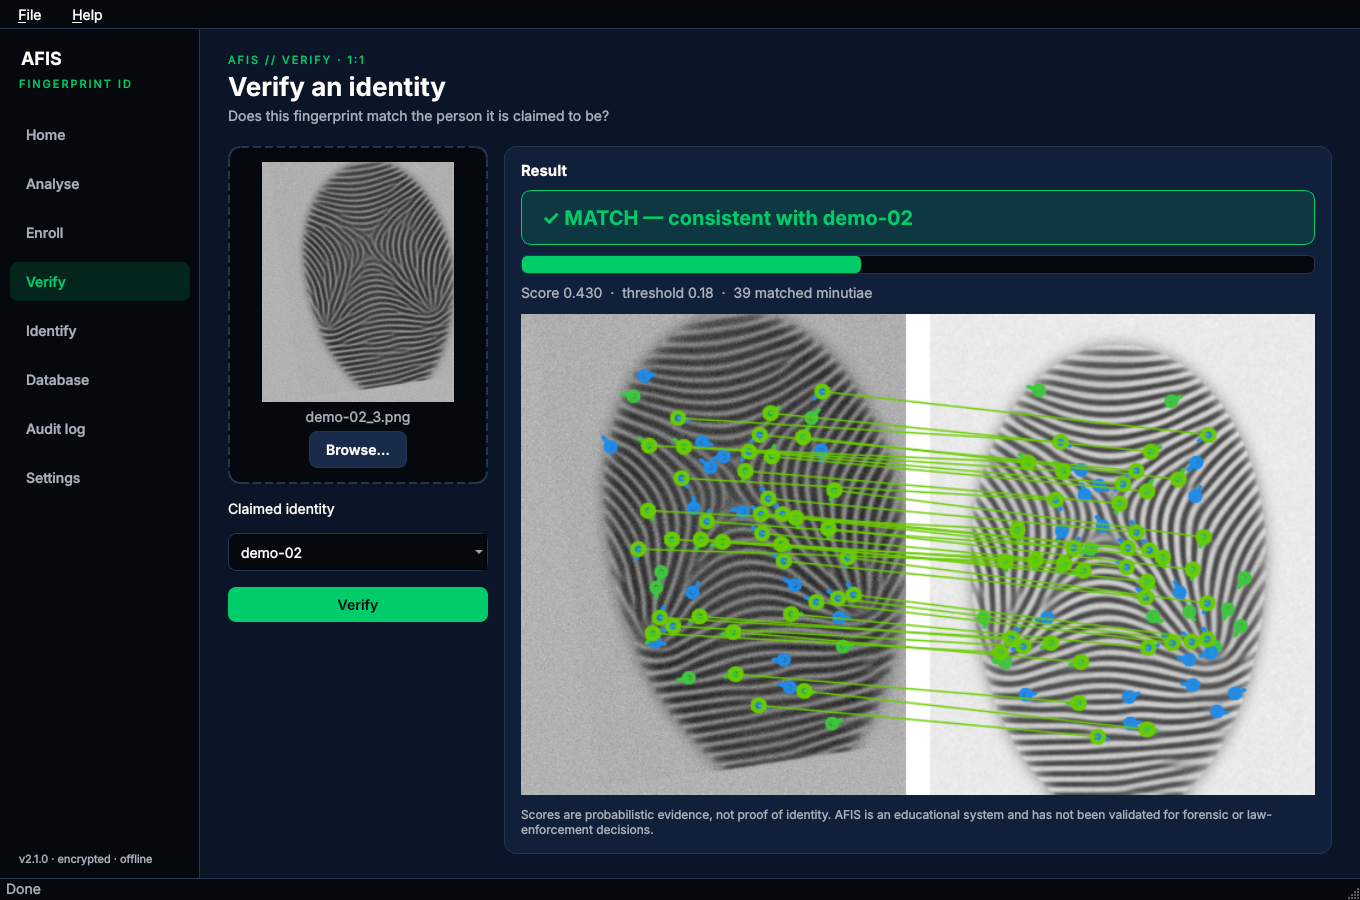
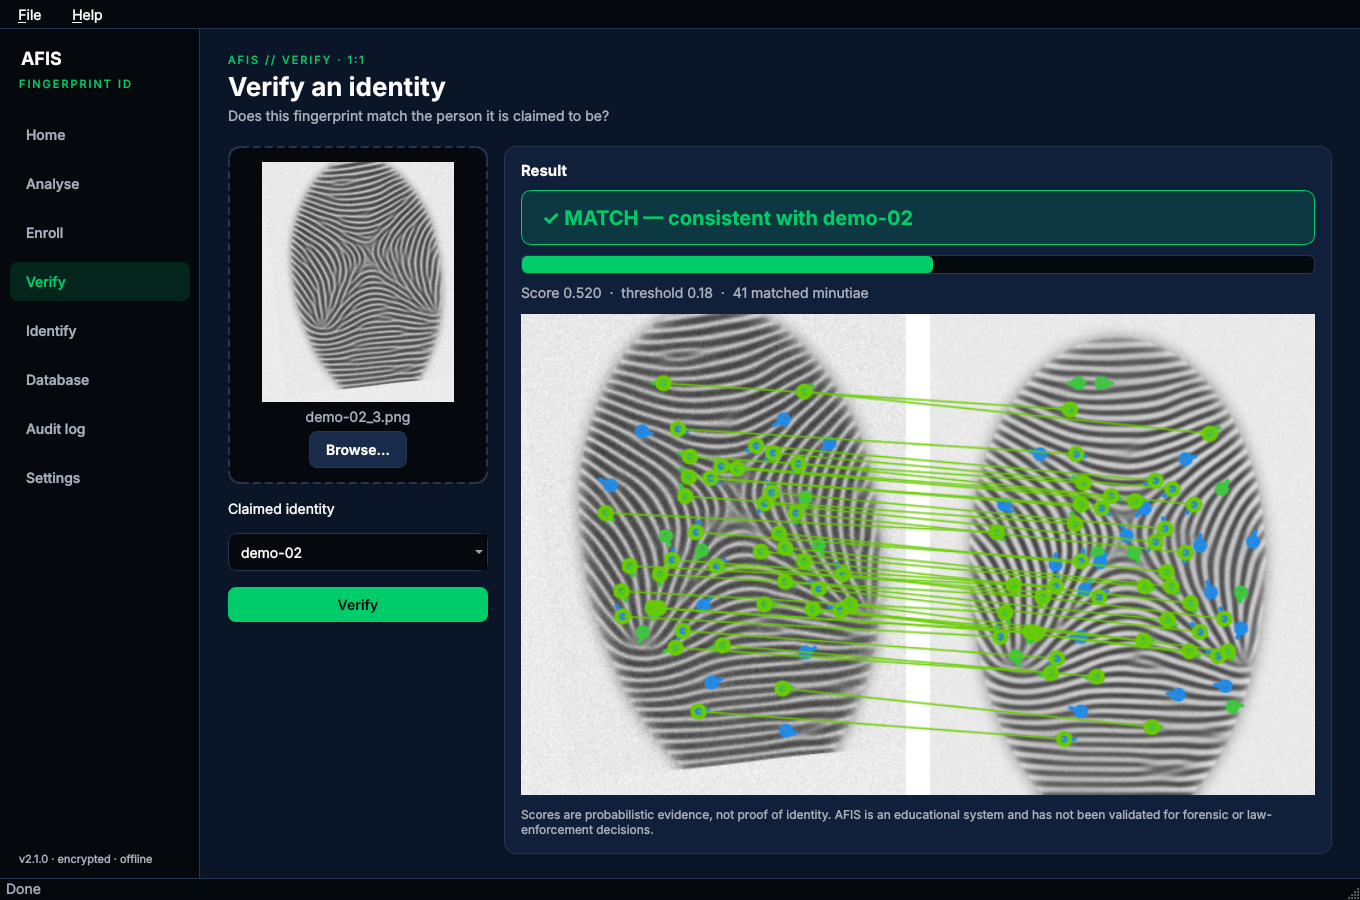
Demo set: 4 well-separated synthetic people; test models real demo usage
The previous seeds were chosen under the tuned matcher settings; after
reverting to the original settings one cross-finger pair sat inside the
required margin on CI. Re-selected under the shipped settings with a
stricter limit (0.08); a fifth finger meeting it was not found in ~2
CPU-hours of search, so the demo now has four people (16 prints).

The separation test now checks what the app does: impressions 2-4 as
queries against each person's enrolled impression 1, in the app's
(query, enrolled) order. The matcher is not exactly symmetric, which is
why an all-pairs, both-orders check reported a stricter number.
Worst wrong-person score 0.090, lowest genuine 0.425 (threshold 0.18).

Screenshots, pipeline figure, README and CHANGELOG updated.

Claude-Session: https://claude.ai/code/session_01MLisWeumCcAW46qffgS4cR

Changed region(s): [[0.3706, 0.28, 0.9574, 0.9022], [0.1853, 0.1556, 0.3397, 0.4667]]

diff --git a/tests/test_data.py b/tests/test_data.py
@@ -100,7 +100,7 @@ def test_genuine_scores_exceed_impostor_scores():
 
 def test_bundled_demo_prints_match_the_generator(tmp_path):
     files = demo_files()
-    assert len(files) == 24 and len(demo_people()) == 6
+    assert len(files) == 16 and len(demo_people()) == 4
     regenerated = write_demo_prints(tmp_path)
     same = sum(np.array_equal(cv2.imread(str(a), 0), cv2.imread(str(b), 0)) for a, b in zip(files, regenerated))
     # Identical with the pinned library versions; allow tiny drift across OpenCV/numpy releases.
@@ -115,14 +115,20 @@ def test_unknown_pattern_rejected():
 
 
 def test_demo_prints_are_well_separated():
-    """The curated demo set must give clear results with the default matcher."""
-    import itertools
+    """
+    The demo must give clear results the way the app uses it: impression 1 of each
+    demo person is enrolled, and impressions 2-4 are used on Verify / Identify,
+    compared as (query, enrolled) like AFISSystem does. (The matcher is not exactly
+    symmetric, so the direction matters.)
+    """
     afis, matcher = AFISSystem(":memory:"), FingerprintMatcher()
-    t = {(pid, k): afis.process(p).as_template() for pid, paths in demo_people() for k, p in enumerate(paths)}
-    gen = [matcher.match_templates(t[a], t[b])[0] for a, b in itertools.combinations(t, 2) if a[0] == b[0]]
-    imp = [matcher.match_templates(t[a], t[b])[0] for a, b in itertools.combinations(t, 2) if a[0] != b[0]]
-    # Scores drift a little across numpy/OpenCV versions (and the matcher is not exactly symmetric),
-    # so require a clear margin on both sides of the decision threshold rather than exact values.
+    people = demo_people()
+    t = {(pid, k): afis.process(p).as_template() for pid, paths in people for k, p in enumerate(paths)}
+    gen = [matcher.match_templates(t[(p, k)], t[(p, 0)])[0] for p, _ in people for k in (1, 2, 3)]
+    imp = [matcher.match_templates(t[(p, k)], t[(q, 0)])[0]
+           for p, _ in people for q, _ in people if p != q for k in (1, 2, 3)]
+    # Scores drift a little across numpy/OpenCV versions, so require a clear margin
+    # on both sides of the decision threshold rather than exact values.
     margin = 0.03
     assert min(gen) >= afis.threshold + margin
     assert max(imp) <= afis.threshold - margin

diff --git a/tests/test_gui.py b/tests/test_gui.py
@@ -69,9 +69,9 @@ def test_demo_identify_verify_flow(app, win, dialogs):
 
     p["HomePage"].load_demo()
     settle(app, win)
-    assert "Enrolled 6 demo people" in p["HomePage"].demo_msg.text()
-    assert db.table.rowCount() == 6 and p["HomePage"].stats.values["People"].text() == "6"
-    assert p["VerifyPage"].person.count() == 6
+    assert "Enrolled 4 demo people" in p["HomePage"].demo_msg.text()
+    assert db.table.rowCount() == 4 and p["HomePage"].stats.values["People"].text() == "4"
+    assert p["VerifyPage"].person.count() == 4
 
     ident = p["IdentifyPage"]
     assert ident.drop.set_path(demo(3, 2))
@@ -170,23 +170,23 @@ def test_protected_deletes(app, win, dialogs):
     db.table.selectRow(visible[0])
     dialogs["answer"] = False                    # user clicks Cancel
     db.delete_selected()
-    assert "demo-02" in dialogs["ask"][-1] and db.table.rowCount() == 6
+    assert "demo-02" in dialogs["ask"][-1] and db.table.rowCount() == 4
     dialogs["answer"] = True
     db.delete_selected()
-    assert db.table.rowCount() == 5
+    assert db.table.rowCount() == 3
     db.filter.clear()
 
     db.table.selectRow(0)
     db.delete_selected_template()
-    assert db.table.rowCount() == 4
+    assert db.table.rowCount() == 2
 
     settings = p["SettingsPage"]
     dialogs["text"] = ("delete", True)           # wrong word: nothing happens
     settings.delete_all()
-    assert db.table.rowCount() == 4 and "Nothing was deleted" in dialogs["warn"][-1]
+    assert db.table.rowCount() == 2 and "Nothing was deleted" in dialogs["warn"][-1]
     dialogs["text"] = ("DELETE", False)          # cancelled
     settings.delete_all()
-    assert db.table.rowCount() == 4
+    assert db.table.rowCount() == 2
     dialogs["text"] = ("DELETE", True)
     settings.delete_all()
     assert win.afis.get_statistics()["total_templates"] == 0 and db.empty.isVisibleTo(db)

diff --git a/afis/demo.py b/afis/demo.py
@@ -2,7 +2,7 @@
 Bundled demo prints.
 
 `afis/demo_prints/` holds synthetic fingerprints made with `afis.synthetic`
-(6 fingers x 4 impressions, named demo-<finger>_<impression>.png). They are
+(4 fingers x 4 impressions, named demo-<finger>_<impression>.png). They are
 not real people's fingerprints, so they can be shipped and shared freely.
 The set is curated for clear demo results (see DEMO_SEEDS).
 Regenerate them with  `python scripts/make_demo_prints.py`.
@@ -14,11 +14,14 @@ import sys
 from pathlib import Path
 from typing import List, Tuple
 
-DEMO_PATTERNS = ["right_loop", "whorl", "left_loop", "arch", "tented_arch", "whorl"]
-# Chosen by `scripts/make_demo_prints.py --search`: every impression of a demo finger matches
-# its other impressions (score >= 0.25) and scores <= 0.10 against every other demo finger.
+DEMO_PATTERNS = ["right_loop", "whorl", "left_loop", "arch"]
+# Chosen by `scripts/make_demo_prints.py --search`: a demo finger's impressions match each
+# other (score >= 0.28) and score low against the other demo fingers (<= 0.08 in the search's
+# comparison order; the worst query-vs-enrolled score as the app uses them is about 0.09).
+# A fifth finger meeting that bar was not found in ~2 CPU-hours of search, so the demo has
+# four people.
 # The demo is curated to show clear results; it is easier than real data.
-DEMO_SEEDS = [3001, 3006, 3034, 3035, 3073, 3342]
+DEMO_SEEDS = [3001, 3015, 3191, 3214]
 DEMO_IMPRESSIONS = 4
 
 
@@ -35,7 +38,7 @@ def demo_files() -> List[Path]:
     return sorted(demo_dir().glob("demo-*_*.png"))
 
 
-def demo_people(count: int = 6) -> List[Tuple[str, List[str]]]:
+def demo_people(count: int = 4) -> List[Tuple[str, List[str]]]:
     """[("demo-01", [path of impression 1, 2, ...]), ...] for the first `count` demo fingers."""
     people = {}
     for p in demo_files():

diff --git a/tests/test_afis.py b/tests/test_afis.py
@@ -172,13 +172,13 @@ def demo_system(tmp_path_factory):
 
 def test_demo_enrolment(demo_system):
     afis, people = demo_system
-    assert people == [f"demo-{k:02d}" for k in range(1, 7)]
-    assert afis.get_statistics()["total_templates"] == 6
+    assert people == [f"demo-{k:02d}" for k in range(1, 5)]
+    assert afis.get_statistics()["total_templates"] == 4
     assert afis.enroll_demo() == people                       # idempotent
-    assert afis.get_statistics()["total_templates"] == 6
+    assert afis.get_statistics()["total_templates"] == 4
 
 
-@pytest.mark.parametrize("finger", range(1, 7))
+@pytest.mark.parametrize("finger", range(1, 5))
 def test_demo_identify_every_finger(demo_system, finger):
     afis, _ = demo_system
     for impression in (2, 3, 4):
@@ -191,7 +191,7 @@ def test_demo_verify_genuine_and_impostor(demo_system):
     afis, _ = demo_system
     ok, score, details = afis.verify(demo(2, 3), "demo-02")
     assert ok and score >= afis.threshold and details["matched_minutiae"] >= 8
-    ok, score, _ = afis.verify(demo(2, 3), "demo-05")
+    ok, score, _ = afis.verify(demo(2, 3), "demo-04")
     assert not ok and score < afis.threshold
     ok, _, details = afis.verify(demo(2, 3), "nobody")
     assert not ok and "error" in details

diff --git a/afis/gui/app.py b/afis/gui/app.py
@@ -125,7 +125,7 @@ class HomePage(BasePage):
         start = Card("Quick start")
         steps = QLabel(
             "<ol style='margin-left:-20px; line-height:150%'>"
-            "<li><b>Load demo data</b> below: it enrols six synthetic people (demo-01 … demo-06).</li>"
+            "<li><b>Load demo data</b> below: it enrols four synthetic people (demo-01 … demo-04).</li>"
             "<li>Open <b>Identify</b>, click <i>Browse…</i> and pick a demo print such as "
             "<code>demo-03_2.png</code>. AFIS should name demo-03.</li>"
             "<li>Open <b>Verify</b> and check a print against a claimed identity.</li>"

diff --git a/tests/test_cli.py b/tests/test_cli.py
@@ -101,10 +101,10 @@ def test_wrong_key_is_a_clean_error(db, capsys, monkeypatch):
 
 def test_demo_and_default_location(capsys, tmp_path):
     code, out = run(capsys, "demo")
-    assert code == 0 and "demo-06" in out
+    assert code == 0 and "demo-04" in out
     assert (tmp_path / "afis_home" / "afis_templates.db").exists()
-    code, out = run(capsys, "identify", demo(5, 4))
-    assert code == 0 and "demo-05" in out
+    code, out = run(capsys, "identify", demo(4, 4))
+    assert code == 0 and "demo-04" in out
     code, out = run(capsys, "info")
     assert str(tmp_path / "afis_home") in out
 

diff --git a/afis/system.py b/afis/system.py
@@ -177,7 +177,7 @@ class AFISSystem:
         """Decrypt every template and re-check the audit chain."""
         return {"templates": self.database.check_integrity(), "audit": self.database.verify_audit()}
 
-    def enroll_demo(self, fingers: int = 6, progress=None) -> List[str]:
+    def enroll_demo(self, fingers: int = 4, progress=None) -> List[str]:
         """
         Enrol synthetic demo people (demo-01 ...) and return their IDs. Each gets
         impression 1; impressions 2-3 are left for the user to verify / identify.

diff --git a/scripts/gui_screenshots.py b/scripts/gui_screenshots.py
@@ -65,7 +65,7 @@ def main(out: Path) -> None:
     verify.person.setEditText("demo-02")
     verify.verify()
     shot(gui.VerifyPage, "gui_verify_match.png")
-    verify.person.setEditText("demo-05")
+    verify.person.setEditText("demo-04")
     verify.verify()
     shot(gui.VerifyPage, "gui_verify_reject.png")
 

diff --git a/README.md b/README.md
@@ -85,9 +85,9 @@ Uninstalling **keeps your data**. To delete the database, key and settings as we
 ## Quick start
 
 1. Open AFIS. The first time, it explains responsible use. Click **I understand**.
-2. On **Home**, click **Load demo data**. This enrols six *synthetic* people (`demo-01` … `demo-06`) from prints that belong to no one.
+2. On **Home**, click **Load demo data**. This enrols four *synthetic* people (`demo-01` … `demo-04`) from prints that belong to no one.
 3. Open **Identify**, click **Browse…** (it opens the demo folder) and choose `demo-03_2.png`, then click **Search database**. AFIS should name **demo-03** and show the matched minutiae.
-4. Open **Verify**, choose `demo-02_3.png`, type `demo-02` and click **Verify** (a match). Then try `demo-05` (no match).
+4. Open **Verify**, choose `demo-02_3.png`, type `demo-02` and click **Verify** (a match). Then try `demo-04` (no match).
 5. Use **Analyse** to see every processing stage, and **Enroll** to add your own images.
 
 You can also drag and drop images onto any page. Keyboard shortcuts: **Ctrl+1 … Ctrl+8** switch pages, and **Ctrl+Q** quits.
@@ -276,7 +276,7 @@ Summary below. See [SECURITY.md](SECURITY.md) for the full design and its limits
 
 ```bash
 pip install -e ".[dev]"
-python -m pytest -q                          # 103 tests: engine, security, CLI, GUI (off-screen), data handling
+python -m pytest -q                          # 101 tests: engine, security, CLI, GUI (off-screen), data handling
 python -m afis.gui --smoke-test              # opens the real window, enrols and identifies demo prints, exits
 python scripts/evaluate.py --synthetic 50    # accuracy on generated fingers
 python scripts/evaluate.py path/to/FVC2002/DB1_B path/to/FVC2002/DB2_B --all-impostors

diff --git a/CHANGELOG.md b/CHANGELOG.md
@@ -10,7 +10,7 @@
 ### Added
 - **Installable desktop app.** Self-contained bundles for Linux (AppImage and tar.gz), Windows (zip) and macOS (zip, Apple silicon). None of them needs Python. GitHub Actions builds and smoke-tests every bundle.
 - `install.sh` / `uninstall.sh` for Linux, including Kali: per-user install with a menu entry and launchers, plus a check for Qt system libraries. Uninstalling keeps your data unless you pass `--purge`.
-- **Home page** with a quick start and a **Load demo data** button. 24 synthetic demo prints (6 fingers × 4 impressions) ship with the app.
+- **Home page** with a quick start and a **Load demo data** button. 16 curated synthetic demo prints (4 fingers × 4 impressions) ship with the app.
 - **Settings page.** It covers the match threshold (saved between sessions), whether to keep encrypted enrolment images, the data and key locations, an integrity check, and delete-all with typed confirmation.
 - Database page: filter, delete a single template, delete a person (with confirmation), and an empty-state hint.
 - Audit page: **Verify log integrity** and **Export CSV**.
